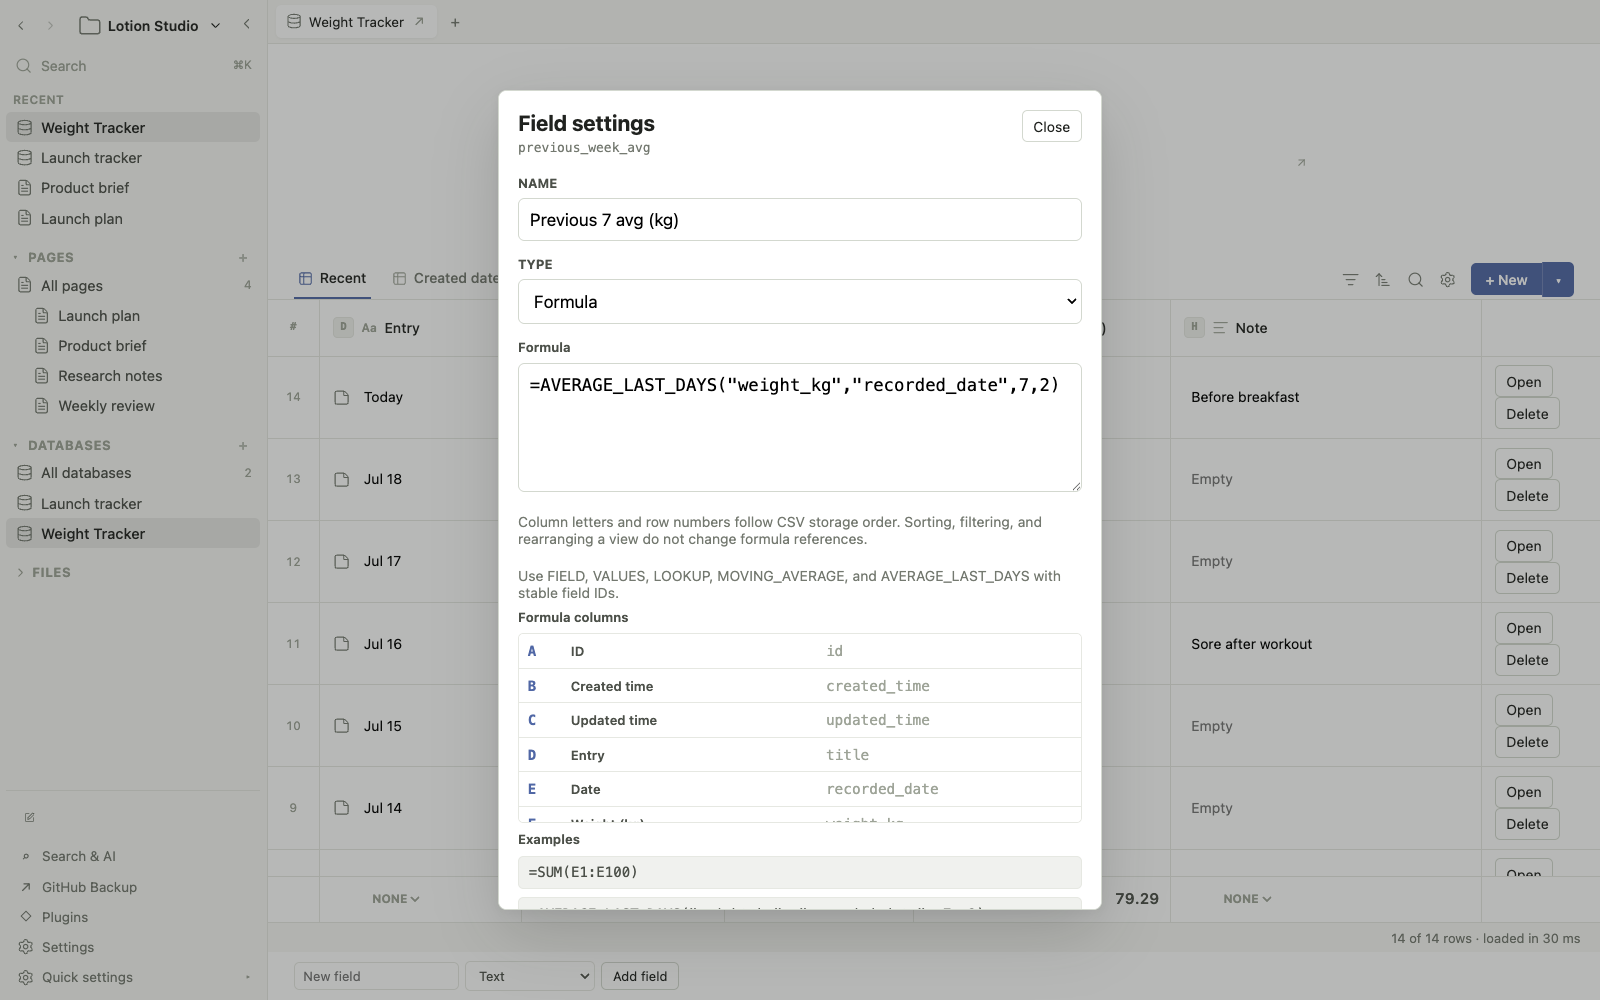
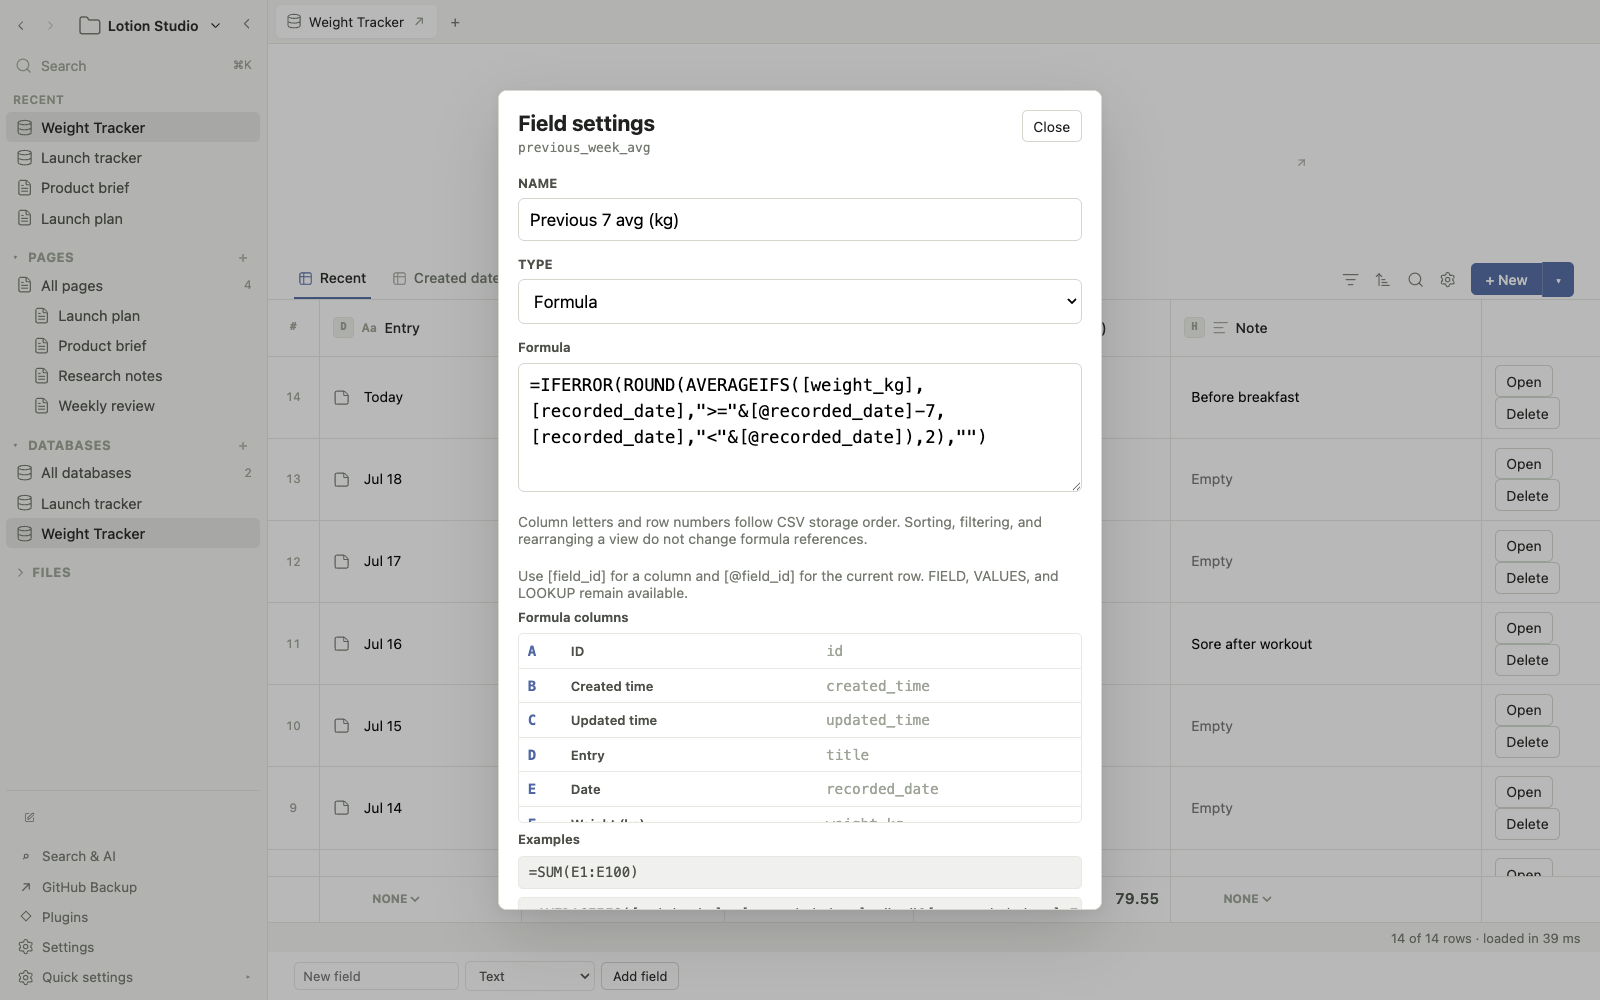
Support Excel-style rolling averages

Changed region(s): [[0.3438, 0.372, 0.6562, 0.465], [0.3125, 0.558, 0.6562, 0.62]]

diff --git a/src/shared/formula.ts b/src/shared/formula.ts
@@ -37,11 +37,20 @@ type FormulaParserConstructor = new (options?: {
 
 const Parser = FormulaParser as unknown as FormulaParserConstructor;
 const SHEET_NAME = "Lotion";
+const MILLISECONDS_PER_DAY = 24 * 60 * 60 * 1000;
+const EXCEL_UNIX_EPOCH_SERIAL = 25569;
 const formulaDateIndexCache = new WeakMap<DatabaseRecord[], Map<string, DatedFormulaRecord[]>>();
+const structuredFormulaColumnCache = new WeakMap<DatabaseRecord[], Map<string, unknown[]>>();
+const structuredFormulaColumnMetadata = new WeakMap<unknown[], StructuredFormulaColumnMetadata>();
 
 interface DatedFormulaRecord {
   item: DatabaseRecord;
   day: number;
+}
+
+interface StructuredFormulaColumnMetadata {
+  field: FieldSchema;
+  records: DatabaseRecord[];
 }
 
 export function formulaColumnLabel(index: number): string {
@@ -74,6 +83,9 @@ export function evaluateFormula(
       functions: {
         FIELD: (name) => readFormulaField(name, record, fields),
         VALUES: (name, fromRow, toRow) => readFormulaValues(name, fields, records, fromRow, toRow),
+        LOTION_CURRENT: (name) => readStructuredFormulaCurrent(name, record, fields),
+        LOTION_COLUMN: (name) => readStructuredFormulaColumn(name, fields, records),
+        AVERAGEIFS: (...args) => averageIfsFormulaValue(...args),
         MOVING_AVERAGE: (name, windowSize, decimals) =>
           movingAverageFormulaValue(name, fields, records, rowIndex, windowSize, decimals),
         AVERAGE_LAST_DAYS: (name, dateField, days, decimals) =>
@@ -112,7 +124,42 @@ export function applyFormulasToRecords(records: DatabaseRecord[], fields: FieldS
 function normalizeFormulaExpression(formula: string | undefined): string {
   const trimmed = formula?.trim() ?? "";
   const expression = trimmed.startsWith("=") ? trimmed.slice(1).trim() : trimmed;
-  return convertLegacyCaseFormula(expression) ?? expression;
+  return expandStructuredFormulaReferences(convertLegacyCaseFormula(expression) ?? expression);
+}
+
+function expandStructuredFormulaReferences(formula: string): string {
+  let result = "";
+  let inString = false;
+  for (let index = 0; index < formula.length;) {
+    const char = formula[index];
+    if (char === '"') {
+      result += char;
+      if (inString && formula[index + 1] === '"') {
+        result += '"';
+        index += 2;
+        continue;
+      }
+      inString = !inString;
+      index += 1;
+      continue;
+    }
+    if (!inString && char === "[") {
+      const end = formula.indexOf("]", index + 1);
+      if (end !== -1) {
+        const reference = formula.slice(index + 1, end).trim();
+        const currentRow = reference.startsWith("@");
+        const fieldName = (currentRow ? reference.slice(1) : reference).trim();
+        if (fieldName) {
+          result += `${currentRow ? "LOTION_CURRENT" : "LOTION_COLUMN"}(${JSON.stringify(fieldName)})`;
+          index = end + 1;
+          continue;
+        }
+      }
+    }
+    result += char;
+    index += 1;
+  }
+  return result;
 }
 
 function buildFieldLookup(fields: FieldSchema[]): Map<string, number> {
@@ -148,6 +195,156 @@ function readFormulaCell(ref: CellReference, fields: FieldSchema[], records: Dat
 function readFormulaField(name: unknown, record: DatabaseRecord, fields: FieldSchema[]): unknown {
   const field = resolveFormulaField(name, fields);
   return field ? record[field.id] ?? "" : "#NAME?";
+}
+
+function readStructuredFormulaCurrent(name: unknown, record: DatabaseRecord, fields: FieldSchema[]): unknown {
+  const field = resolveFormulaField(name, fields);
+  return field ? structuredFormulaValue(record[field.id], field) : Number.NaN;
+}
+
+function readStructuredFormulaColumn(
+  name: unknown,
+  fields: FieldSchema[],
+  records: DatabaseRecord[]
+): unknown[] {
+  const field = resolveFormulaField(name, fields);
+  if (!field) return [Number.NaN];
+  let byField = structuredFormulaColumnCache.get(records);
+  if (!byField) {
+    byField = new Map();
+    structuredFormulaColumnCache.set(records, byField);
+  }
+  const cacheKey = `${field.id}:${field.type}`;
+  const cached = byField.get(cacheKey);
+  if (cached) return cached;
+  const column = records.map((item) => structuredFormulaValue(item[field.id], field));
+  structuredFormulaColumnMetadata.set(column, { field, records });
+  if (field.type !== "formula" && field.type !== "rollup") byField.set(cacheKey, column);
+  return column;
+}
+
+function structuredFormulaValue(value: RecordValue | undefined, field: FieldSchema): unknown {
+  if (field.type !== "date" && field.type !== "created_time" && field.type !== "updated_time") return value ?? "";
+  const day = formulaCalendarDay(value);
+  return day === undefined ? "" : day / MILLISECONDS_PER_DAY + EXCEL_UNIX_EPOCH_SERIAL;
+}
+
+function averageIfsFormulaValue(...args: unknown[]): unknown {
+  if (args.length < 3 || (args.length - 1) % 2 !== 0) return Number.NaN;
+  const optimized = optimizedDateRangeAverage(args);
+  if (optimized !== undefined) return optimized;
+  const averageValues = flattenFormulaArgument(args[0]);
+  const criteria: Array<{ values: unknown[]; criterion: unknown }> = [];
+  for (let index = 1; index < args.length; index += 2) {
+    const values = flattenFormulaArgument(args[index]);
+    if (values.length !== averageValues.length) return Number.NaN;
+    criteria.push({ values, criterion: unwrapFormulaArgument(args[index + 1]) });
+  }
+
+  const matches: number[] = [];
+  for (let index = 0; index < averageValues.length; index += 1) {
+    if (!criteria.every((item) => matchesFormulaCriterion(item.values[index], item.criterion))) continue;
+    const value = averageValues[index];
+    if (value === "" || value === null || value === undefined || typeof value === "boolean") continue;
+    const numeric = Number(value);
+    if (Number.isFinite(numeric)) matches.push(numeric);
+  }
+  if (matches.length === 0) return Number.NaN;
+  return matches.reduce((sum, value) => sum + value, 0) / matches.length;
+}
+
+function optimizedDateRangeAverage(args: unknown[]): number | undefined {
+  if (args.length !== 5) return undefined;
+  const averageColumn = unwrapFormulaArgument(args[0]);
+  const firstCriteriaColumn = unwrapFormulaArgument(args[1]);
+  const secondCriteriaColumn = unwrapFormulaArgument(args[3]);
+  if (!Array.isArray(averageColumn) || !Array.isArray(firstCriteriaColumn) || firstCriteriaColumn !== secondCriteriaColumn) {
+    return undefined;
+  }
+  const averageMetadata = structuredFormulaColumnMetadata.get(averageColumn);
+  const dateMetadata = structuredFormulaColumnMetadata.get(firstCriteriaColumn);
+  if (!averageMetadata || !dateMetadata || averageMetadata.records !== dateMetadata.records) return undefined;
+  if (dateMetadata.field.type !== "date" && dateMetadata.field.type !== "created_time" && dateMetadata.field.type !== "updated_time") {
+    return undefined;
+  }
+
+  const criteria = [parseNumericFormulaCriterion(args[2]), parseNumericFormulaCriterion(args[4])];
+  if (criteria.some((item) => !item)) return undefined;
+  const lower = criteria.find((item) => item?.operator === ">" || item?.operator === ">=");
+  const upper = criteria.find((item) => item?.operator === "<" || item?.operator === "<=");
+  if (!lower || !upper) return undefined;
+  const lowerDay = (lower.expected - EXCEL_UNIX_EPOCH_SERIAL) * MILLISECONDS_PER_DAY;
+  const upperDay = (upper.expected - EXCEL_UNIX_EPOCH_SERIAL) * MILLISECONDS_PER_DAY;
+  const datedRecords = formulaDateIndex(dateMetadata.records, dateMetadata.field.id);
+  const fromIndex = lower.operator === ">="
+    ? lowerBoundFormulaDay(datedRecords, lowerDay)
+    : upperBoundFormulaDay(datedRecords, lowerDay);
+  const toIndex = upper.operator === "<"
+    ? lowerBoundFormulaDay(datedRecords, upperDay)
+    : upperBoundFormulaDay(datedRecords, upperDay);
+  const values = datedRecords
+    .slice(fromIndex, toIndex)
+    .map(({ item }) => item[averageMetadata.field.id])
+    .filter((value) => value !== "" && value !== null && value !== undefined && typeof value !== "boolean")
+    .map(Number)
+    .filter(Number.isFinite);
+  if (values.length === 0) return Number.NaN;
+  return values.reduce((sum, value) => sum + value, 0) / values.length;
+}
+
+function parseNumericFormulaCriterion(value: unknown): { operator: string; expected: number } | undefined {
+  const raw = unwrapFormulaArgument(value);
+  if (typeof raw !== "string") return undefined;
+  const match = raw.match(/^(<=|>=|<|>)(.*)$/);
+  if (!match) return undefined;
+  const expected = Number(match[2]);
+  return Number.isFinite(expected) ? { operator: match[1], expected } : undefined;
+}
+
+function flattenFormulaArgument(value: unknown): unknown[] {
+  const unwrapped = unwrapFormulaArgument(value);
+  if (!Array.isArray(unwrapped)) return [unwrapped];
+  return unwrapped.flat(Number.POSITIVE_INFINITY);
+}
+
+function matchesFormulaCriterion(value: unknown, criterion: unknown): boolean {
+  const rawCriterion = unwrapFormulaArgument(criterion);
+  const parsed = typeof rawCriterion === "string"
+    ? rawCriterion.match(/^(<=|>=|<>|=|<|>)(.*)$/)
+    : null;
+  const operator = parsed?.[1] ?? "=";
+  const expected = parsed ? parsed[2] : rawCriterion;
+  const expectedNumber = expected !== "" && expected !== null && expected !== undefined
+    ? Number(expected)
+    : Number.NaN;
+  if (Number.isFinite(expectedNumber)) {
+    const actualNumber = value === "" || value === null || value === undefined ? Number.NaN : Number(value);
+    if (!Number.isFinite(actualNumber)) return operator === "<>";
+    return compareFormulaCriterion(actualNumber, expectedNumber, operator);
+  }
+
+  const actualText = String(value ?? "").toLowerCase();
+  const expectedText = String(expected ?? "").toLowerCase();
+  if ((operator === "=" || operator === "<>") && /[*?]/.test(expectedText)) {
+    const pattern = expectedText
+      .replace(/[.+^${}()|[\]\\]/g, "\\$&")
+      .replace(/\*/g, ".*")
+      .replace(/\?/g, ".");
+    const matches = new RegExp(`^${pattern}$`, "i").test(actualText);
+    return operator === "=" ? matches : !matches;
+  }
+  return compareFormulaCriterion(actualText, expectedText, operator);
+}
+
+function compareFormulaCriterion(left: number | string, right: number | string, operator: string): boolean {
+  switch (operator) {
+    case "<": return left < right;
+    case "<=": return left <= right;
+    case ">": return left > right;
+    case ">=": return left >= right;
+    case "<>": return left !== right;
+    default: return left === right;
+  }
 }
 
 function readFormulaValues(
@@ -264,6 +461,17 @@ function lowerBoundFormulaDay(records: DatedFormulaRecord[], target: number): nu
   while (low < high) {
     const middle = Math.floor((low + high) / 2);
     if (records[middle].day < target) low = middle + 1;
+    else high = middle;
+  }
+  return low;
+}
+
+function upperBoundFormulaDay(records: DatedFormulaRecord[], target: number): number {
+  let low = 0;
+  let high = records.length;
+  while (low < high) {
+    const middle = Math.floor((low + high) / 2);
+    if (records[middle].day <= target) low = middle + 1;
     else high = middle;
   }
   return low;

diff --git a/website/index.html b/website/index.html
@@ -123,20 +123,20 @@
           <h2 id="formula-title">Track today. Compare with the week before.</h2>
           <p>
             Record one weight each day. Lotion calculates the average of the
-            previous seven entries directly from the CSV, without a helper
+            previous seven calendar days directly from the CSV, without a helper
             database, relation, or rollup.
           </p>
-          <pre><code>=AVERAGE_LAST_DAYS("weight_kg", "recorded_date", 7, 2)</code></pre>
+          <pre><code>=IFERROR(ROUND(AVERAGEIFS([weight_kg], [recorded_date], ">="&amp;[@recorded_date]-7, [recorded_date], "&lt;"&amp;[@recorded_date]), 2), "")</code></pre>
           <ul>
-            <li><strong>Calendar-aware</strong><span>The current entry's date selects records from the previous seven days.</span></li>
-            <li><strong>Easy to read</strong><span>Value field, date field, window, and precision stay visible in one formula.</span></li>
+            <li><strong>Excel-style</strong><span>AVERAGEIFS, criteria, and structured column references work together.</span></li>
+            <li><strong>Calendar-aware</strong><span>The current row date selects records from the previous seven days.</span></li>
             <li><strong>Order-safe</strong><span>Sorting, backfilling, or missing a day does not silently shift the window.</span></li>
           </ul>
         </div>
         <figure class="formula-story-visual">
           <img
             src="assets/lotion-formulas.png"
-            alt="Lotion weight tracker calculating the average of the previous seven CSV records"
+            alt="Lotion weight tracker calculating the average of the previous seven calendar days"
             width="1600"
             height="1000"
           />

diff --git a/src/renderer/lib/i18n.ts b/src/renderer/lib/i18n.ts
@@ -77,7 +77,7 @@ const EN = {
   "field.remove": "Remove",
   "field.formula": "Formula",
   "field.formulaHelper": "Column letters and row numbers follow CSV storage order. Sorting, filtering, and rearranging a view do not change formula references.",
-  "field.formulaStableHelper": "Use FIELD, VALUES, LOOKUP, MOVING_AVERAGE, and AVERAGE_LAST_DAYS with stable field IDs.",
+  "field.formulaStableHelper": "Use [field_id] for a column and [@field_id] for the current row. FIELD, VALUES, and LOOKUP remain available.",
   "field.formulaColumns": "Formula columns",
   "field.formulaExamples": "Examples",
   "field.formulaPreview": "Preview formula",
@@ -339,7 +339,7 @@ const ZH: Record<TranslationKey, string> = {
   "field.remove": "删除",
   "field.formula": "公式",
   "field.formulaHelper": "列字母和行号对应 CSV 的存储顺序。排序、筛选和调整视图列顺序不会改变公式引用。",
-  "field.formulaStableHelper": "需要引用在结构变化后仍然稳定时，请用 FIELD、VALUES、LOOKUP、MOVING_AVERAGE 和 AVERAGE_LAST_DAYS 搭配字段 ID。",
+  "field.formulaStableHelper": "用 [字段 ID] 引用整列，用 [@字段 ID] 引用当前行；FIELD、VALUES 和 LOOKUP 仍然可用。",
   "field.formulaColumns": "公式列坐标",
   "field.formulaExamples": "示例",
   "field.formulaPreview": "预览公式",

diff --git a/src/renderer/features/databases/FieldSettingsDialog.tsx b/src/renderer/features/databases/FieldSettingsDialog.tsx
@@ -261,7 +261,7 @@ export function FieldSettingsDialog({ field, fields = [], records = [], database
             <div className="formula-example-section">
               <strong>{t("field.formulaExamples")}</strong>
               <code>=SUM(E1:E100)</code>
-              <code>=AVERAGE_LAST_DAYS("weight_kg", "recorded_date", 7, 2)</code>
+              <code>=AVERAGEIFS([weight_kg], [recorded_date], "&gt;="&amp;[@recorded_date]-7, [recorded_date], "&lt;"&amp;[@recorded_date])</code>
               <code>=SUM(VALUES("line_total", 4, 100))</code>
             </div>
             <div className="formula-preview-row">

diff --git a/README.md b/README.md
@@ -126,18 +126,19 @@ or rollups to aggregate other records. Lotion can also treat the underlying CSV
 as a spreadsheet: formulas can address cells, ranges, and arbitrary source rows
 directly.
 
-This weight tracker stores one measurement per day. Starting with the eighth
-entry, one formula calculates the average of the previous seven source rows:
+This weight tracker stores one measurement per day. An Excel-style formula
+calculates the average of the available measurements in the previous seven
+calendar days:
 
 ```text
-=AVERAGE_LAST_DAYS("weight_kg", "recorded_date", 7, 2)
+=IFERROR(ROUND(AVERAGEIFS([weight_kg], [recorded_date], ">="&[@recorded_date]-7, [recorded_date], "<"&[@recorded_date]), 2), "")
 ```
 
-- `"weight_kg"` is the stable field ID to average.
-- `"recorded_date"` selects records by the current entry's date.
-- `7` selects the previous seven calendar days.
-- `2` rounds the result to two decimal places.
-- The first seven entries stay empty until a complete window is available.
+- `[weight_kg]` is the complete CSV column to average.
+- `[recorded_date]` is the complete date column.
+- `[@recorded_date]` is the date in the current row.
+- The two criteria select the previous seven calendar days and exclude today.
+- `ROUND(..., 2)` keeps two decimal places; `IFERROR(..., "")` leaves the first entry empty.
 - `A1`, `SUM(E1:E100)`, `VLOOKUP`, `SUMIF`, and other Excel-style expressions
   remain available when positional formulas are the better fit.
 